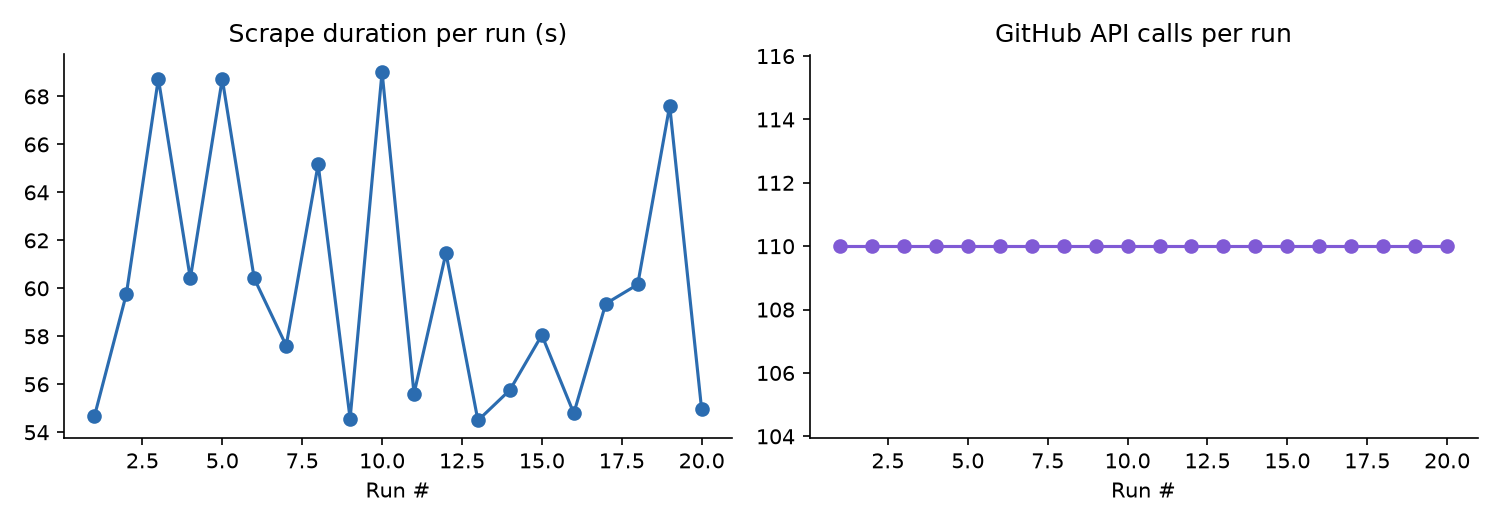
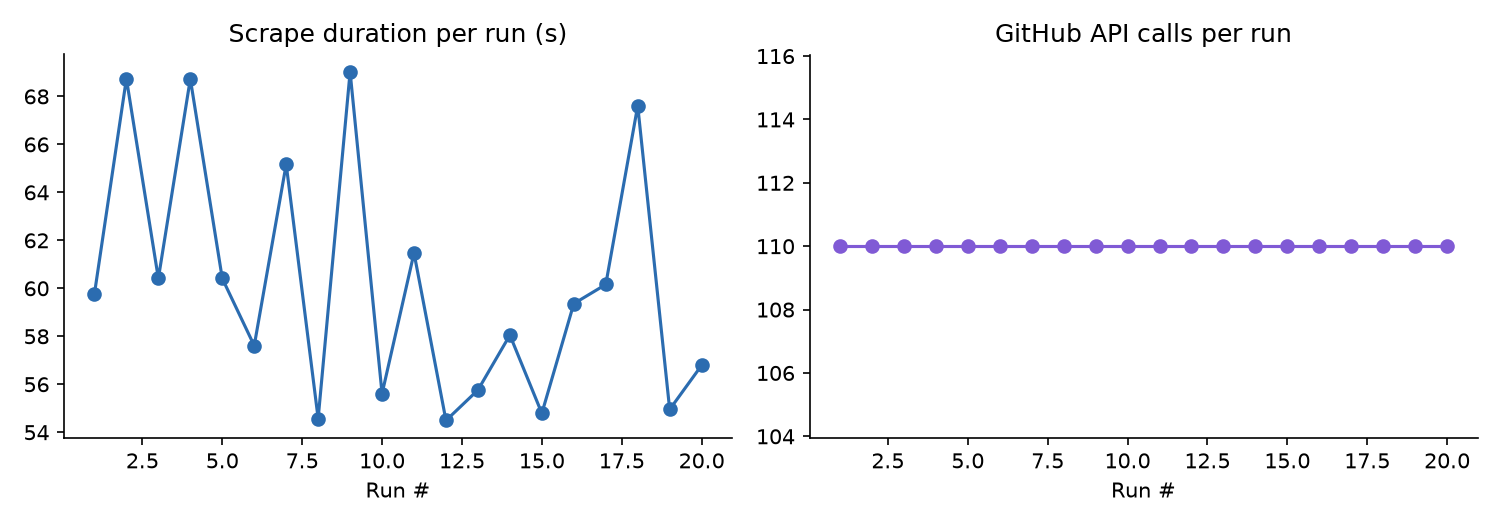
Weekly issue tracker refresh

Changed region(s): [[0.0613, 0.1219, 0.46, 0.8229], [0.4293, 0.6705, 0.4907, 0.7924], [0.0613, 0.7619, 0.092, 0.7924]]

diff --git a/README.md b/README.md
@@ -81,7 +81,7 @@ See [CONTRIBUTING.md](CONTRIBUTING.md) for the full contributor workflow — inc
 
 <!-- TRACKER:START -->
 
-_Last updated: 2026-08-15 18:37 UTC_
+_Last updated: 2026-08-15 19:01 UTC_
 
 _Tracking **18** upstream repos, **379** relevant open issues._
 
@@ -289,7 +289,7 @@ _Tracking **18** upstream repos, **379** relevant open issues._
 
 <!-- METRICS:START -->
 
-_Last run: 2026-08-15 18:37 UTC, took **54.9s**, **110** GitHub API calls, **4890/5000** rate limit remaining._
+_Last run: 2026-08-15 19:00 UTC, took **56.8s**, **110** GitHub API calls, **4780/5000** rate limit remaining._
 
 ![Scrape metrics trend](assets/metrics_trend.png)
 
